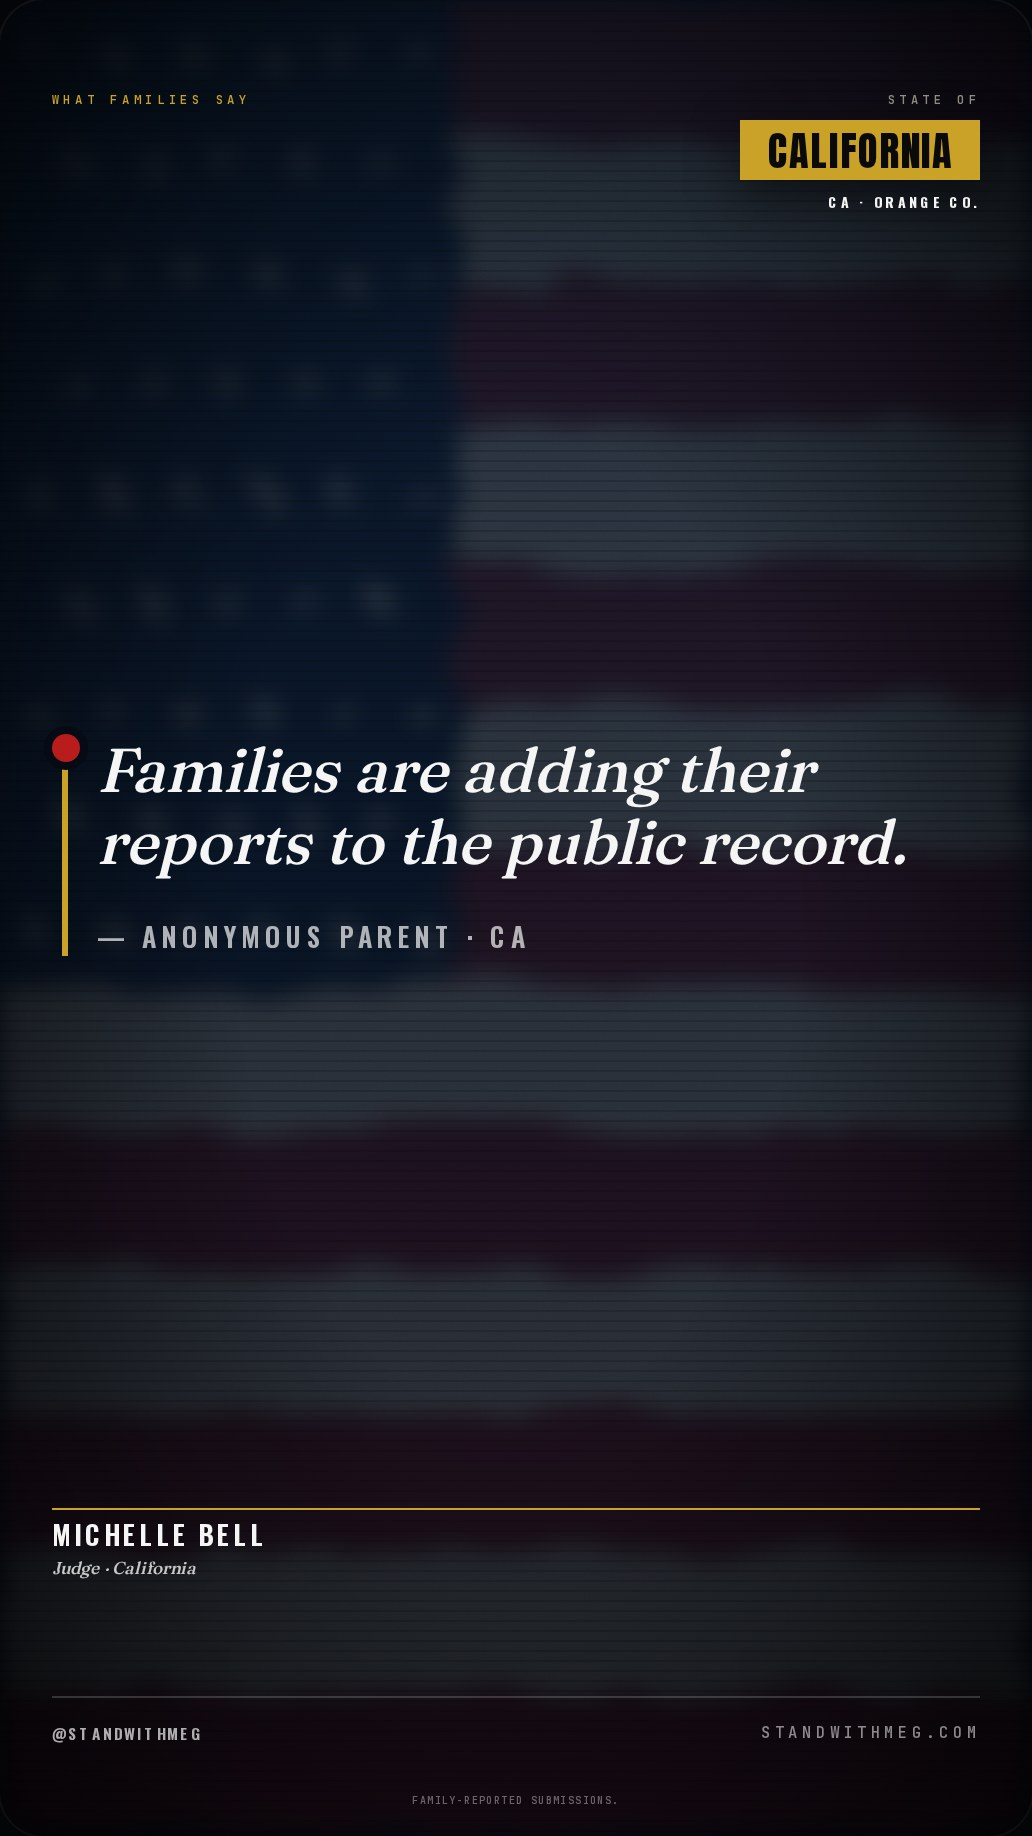
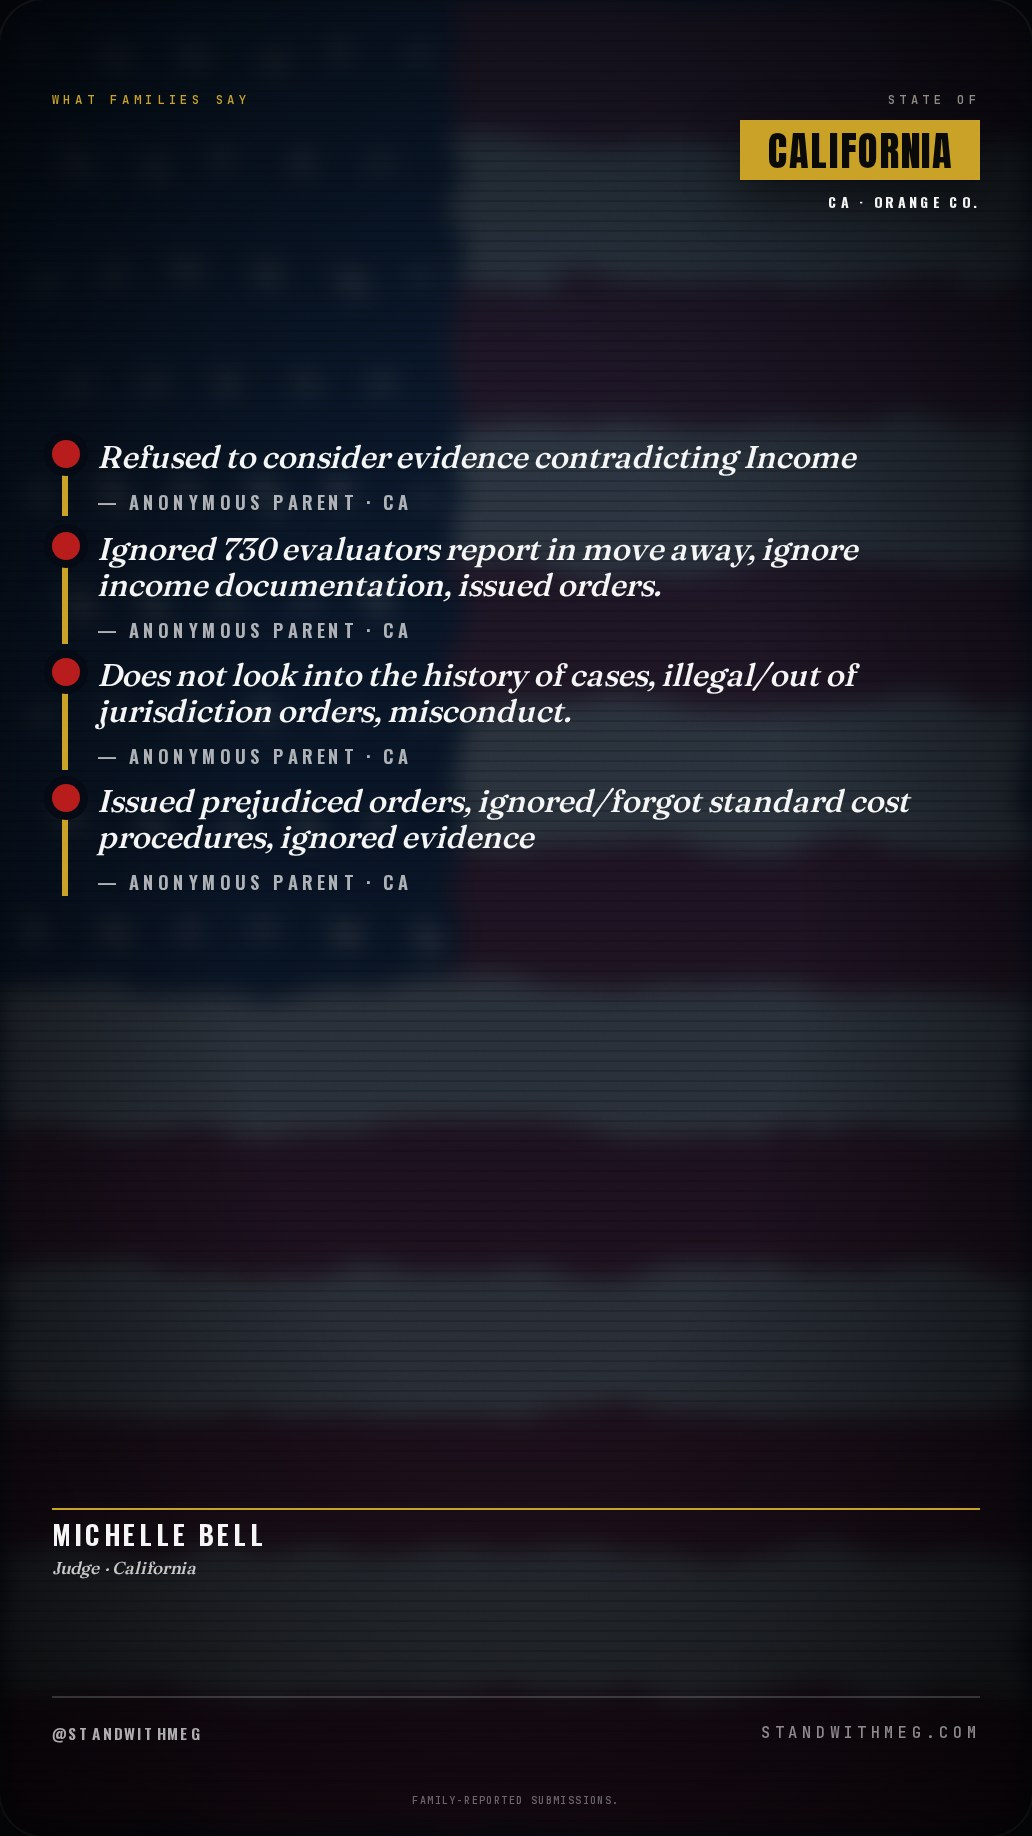
chore: auto-regenerate 10 report/share file(s) from live Supabase data

Changed region(s): [[0.031, 0.2173, 0.8682, 0.5278], [0.6512, 0.3415, 0.8372, 0.3725], [0.062, 0.4967, 0.093, 0.5278]]

diff --git a/public/court-actors/ca/michele_bell/share.html b/public/court-actors/ca/michele_bell/share.html
@@ -570,7 +570,7 @@ html,body { background:#06070A; color:var(--white); font-family:Inter,system-ui,
 <main class="share-scroll">
 <section class="phone-frame">
 <article class="frame frame-image" id="frame-01">
-  <img class="frame-img" src="frame-01.jpg?v=07b85b0b50" alt="Michelle Bell share slide 1 of 7">
+  <img class="frame-img" src="frame-01.jpg?v=ec707e123e" alt="Michelle Bell share slide 1 of 7">
 </article>
 
 <div class="frame-actions" aria-label="Frame 1 actions">
@@ -580,7 +580,7 @@ html,body { background:#06070A; color:var(--white); font-family:Inter,system-ui,
 </section>
 <section class="phone-frame">
 <article class="frame frame-image" id="frame-02">
-  <img class="frame-img" src="frame-02.jpg?v=046135c30d" alt="Michelle Bell share slide 2 of 7">
+  <img class="frame-img" src="frame-02.jpg?v=7d24258f05" alt="Michelle Bell share slide 2 of 7">
 </article>
 
 <div class="frame-actions" aria-label="Frame 2 actions">
@@ -590,7 +590,7 @@ html,body { background:#06070A; color:var(--white); font-family:Inter,system-ui,
 </section>
 <section class="phone-frame">
 <article class="frame frame-image" id="frame-03">
-  <img class="frame-img" src="frame-03.jpg?v=911c434cae" alt="Michelle Bell share slide 3 of 7">
+  <img class="frame-img" src="frame-03.jpg?v=2df782e9a6" alt="Michelle Bell share slide 3 of 7">
 </article>
 
 <div class="frame-actions" aria-label="Frame 3 actions">
@@ -610,7 +610,7 @@ html,body { background:#06070A; color:var(--white); font-family:Inter,system-ui,
 </section>
 <section class="phone-frame">
 <article class="frame frame-image" id="frame-05">
-  <img class="frame-img" src="frame-05.jpg?v=b2f23ec179" alt="Michelle Bell share slide 5 of 7">
+  <img class="frame-img" src="frame-05.jpg?v=3563816795" alt="Michelle Bell share slide 5 of 7">
 </article>
 
 <div class="frame-actions" aria-label="Frame 5 actions">
@@ -620,7 +620,7 @@ html,body { background:#06070A; color:var(--white); font-family:Inter,system-ui,
 </section>
 <section class="phone-frame">
 <article class="frame frame-image" id="frame-06">
-  <img class="frame-img" src="frame-06.jpg?v=08087ac411" alt="Michelle Bell share slide 6 of 7">
+  <img class="frame-img" src="frame-06.jpg?v=9c2c64061f" alt="Michelle Bell share slide 6 of 7">
 </article>
 
 <div class="frame-actions" aria-label="Frame 6 actions">
@@ -630,7 +630,7 @@ html,body { background:#06070A; color:var(--white); font-family:Inter,system-ui,
 </section>
 <section class="phone-frame">
 <article class="frame frame-image" id="frame-07">
-  <img class="frame-img" src="frame-07.jpg?v=60ae5e3d66" alt="Michelle Bell share slide 7 of 7">
+  <img class="frame-img" src="frame-07.jpg?v=71ad986691" alt="Michelle Bell share slide 7 of 7">
 </article>
 
 <div class="frame-actions" aria-label="Frame 7 actions">
@@ -689,8 +689,8 @@ html,body { background:#06070A; color:var(--white); font-family:Inter,system-ui,
     <div class="display xl">MICHELLE<br><span class="gold">BELL</span></div>
     <div class="f1-role">Judge</div>
     <div class="f1-report-count">
-      <b>1</b>
-      <span>survey submissions named this person on the public record</span>
+      <b>5</b>
+      <span>families named this person on the public record</span>
     </div>
     <div class="f1-state-count"><b>444</b> CA families in the Registry</div>
   </div>
@@ -746,8 +746,8 @@ html,body { background:#06070A; color:var(--white); font-family:Inter,system-ui,
 </div>
 
   <div class="frame-tag">WHAT FAMILIES SAY</div>
-  <div class="f4-body f4-count-1">
-    <div class="f4-quote"><span class="f4-dot"></span><p class="f4-text">Families are adding their reports to the public record.</p><p class="f4-attr">— Anonymous parent · CA</p></div>
+  <div class="f4-body f4-count-4">
+    <div class="f4-quote"><span class="f4-dot"></span><p class="f4-text">Refused to consider evidence contradicting Income</p><p class="f4-attr">— Anonymous parent · CA</p></div><div class="f4-quote"><span class="f4-dot"></span><p class="f4-text">Ignored 730 evaluators report in move away, ignore income documentation, issued orders.</p><p class="f4-attr">— Anonymous parent · CA</p></div><div class="f4-quote"><span class="f4-dot"></span><p class="f4-text">Does not look into the history of cases, illegal/out of jurisdiction orders, misconduct.</p><p class="f4-attr">— Anonymous parent · CA</p></div><div class="f4-quote"><span class="f4-dot"></span><p class="f4-text">Issued prejudiced orders, ignored/forgot standard cost procedures, ignored evidence</p><p class="f4-attr">— Anonymous parent · CA</p></div>
   </div>
 
 <div class="actor-id-strip">
@@ -890,7 +890,7 @@ html,body { background:#06070A; color:var(--white); font-family:Inter,system-ui,
 
   <div class="frame-tag">COUNTED · PUBLIC RECORD</div>
   <div class="f5-stack">
-    <div class="f5-mega-number">5,415</div>
+    <div class="f5-mega-number">5,416</div>
     <div class="f5-mega-label">FAMILIES<br>NATIONWIDE</div>
     <div class="f5-italic">— and now global.</div>
     <div class="f5-pattern">
@@ -1029,7 +1029,7 @@ html,body { background:#06070A; color:var(--white); font-family:Inter,system-ui,
     <span class="gold">MEG.</span>
   </div>
   <div class="f7-cta-text">
-    Join over <b class="f7-count">5,415</b><br>
+    Join over <b class="f7-count">5,416</b><br>
     families nationwide &amp; global<br>
     exposing the truth.
   </div>
@@ -1046,7 +1046,7 @@ html,body { background:#06070A; color:var(--white); font-family:Inter,system-ui,
   <details>
     <summary>Audit notes</summary>
     <p>Spec source: <code>New Final Post and Capcut template/export/michele_bell</code></p>
-    <ul><li>public_family_count_api: no actors returned for state=&#x27;CA&#x27;</li><li>family_reports: no submission_ids on actor</li><li>public_comments: no merged comments or raw notes available</li><li>pdf_public_actor: no &#x27;Michelle Bell&#x27; in cache for CA</li></ul>
+    <ul><li>No unresolved fields recorded.</li></ul>
   </details>
 </aside>
 <script>
